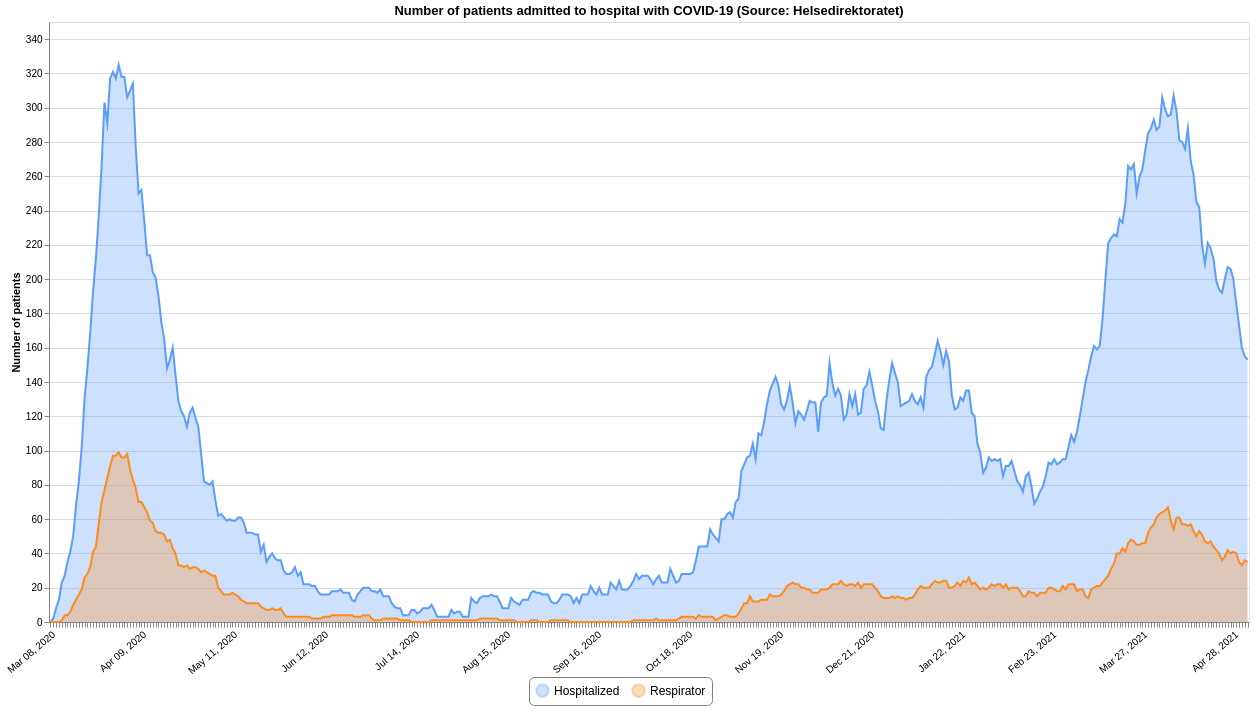
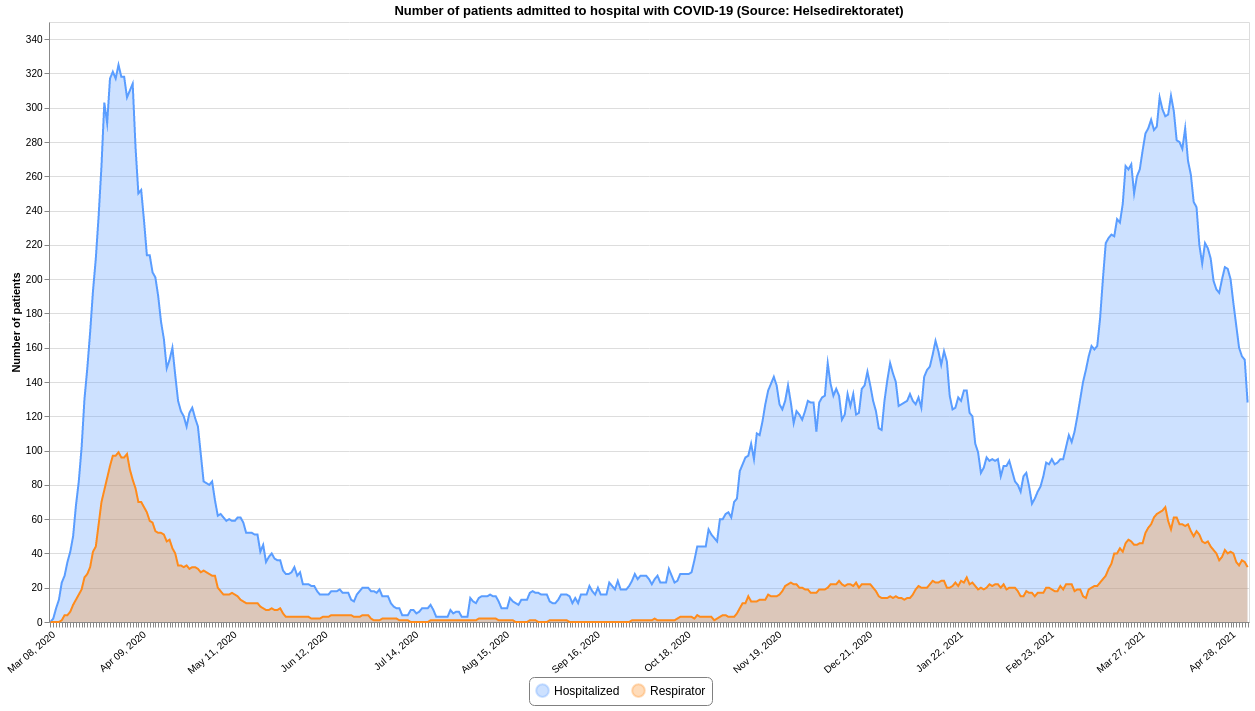
Updated 2021-05-04 13:00

diff --git a/README.md b/README.md
@@ -12,7 +12,7 @@ This repository contains datasets of daily time-series data related to COVID-19 
 | :--- | :--- | :--- | :--- | :--- |
 |[Confirmed](#confirmedcsv)|FHI / MSIS|2021-05-04 00:10:45+02:00|[<center>csv</center>](https://raw.githubusercontent.com/frefrik/c19norge-data/main/data/confirmed.csv)|[<center>preview</center>](data/confirmed.csv)|
 |[Dead](#deadcsv)|FHI|2021-05-03 13:20:56+02:00|[<center>csv</center>](https://raw.githubusercontent.com/frefrik/c19norge-data/main/data/dead.csv)|[<center>preview</center>](data/dead.csv)|
-|[Hospitalized](#hospitalizedcsv)|Helsedirektoratet|2021-05-03 13:00:51+02:00|[<center>csv</center>](https://raw.githubusercontent.com/frefrik/c19norge-data/main/data/hospitalized.csv)|[<center>preview</center>](data/hospitalized.csv)|
+|[Hospitalized](#hospitalizedcsv)|Helsedirektoratet|2021-05-04 13:00:47+02:00|[<center>csv</center>](https://raw.githubusercontent.com/frefrik/c19norge-data/main/data/hospitalized.csv)|[<center>preview</center>](data/hospitalized.csv)|
 |[Tested](#testedcsv)|FHI|2021-05-03 13:00:48+02:00|[<center>csv</center>](https://raw.githubusercontent.com/frefrik/c19norge-data/main/data/tested.csv)|[<center>preview</center>](data/tested.csv)|
 |[Tested Lab](#tested_labcsv)|FHI|2021-05-03 13:20:51+02:00|[<center>csv</center>](https://raw.githubusercontent.com/frefrik/c19norge-data/main/data/tested_lab.csv)|[<center>preview</center>](data/tested_lab.csv)|
 |[Transport](#transportcsv)|FHI|2021-05-04 10:20:53+02:00|[<center>csv</center>](https://raw.githubusercontent.com/frefrik/c19norge-data/main/data/transport.csv)|[<center>preview</center>](data/transport.csv)|
